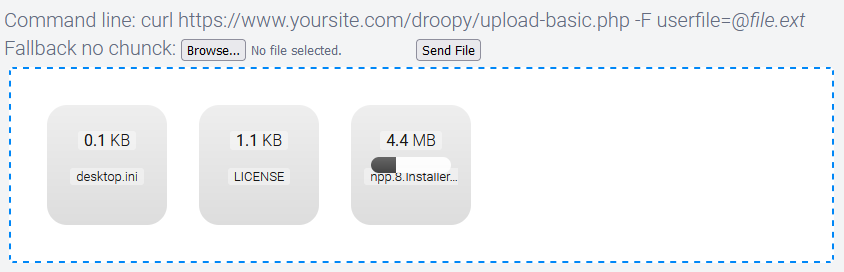
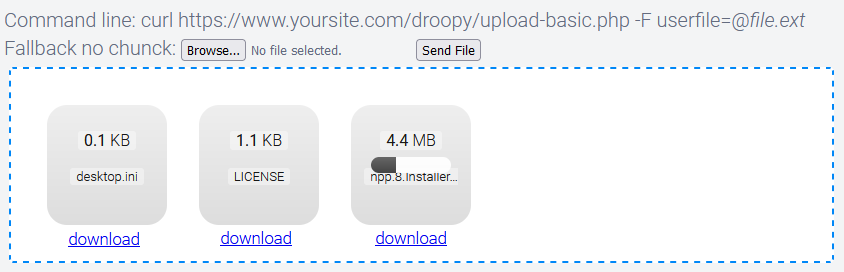
release 1.3.1 phenomenal 	modified:   README.md 	modified:   assets/front1.png 	modified:   index.html

Changed region(s): [[0.0616, 0.8529, 0.1848, 0.9118], [0.2464, 0.8529, 0.3697, 0.9118], [0.4313, 0.8529, 0.5237, 0.9118]]

diff --git a/index.html b/index.html
@@ -1,7 +1,7 @@
 <!DOCTYPE html>
 <html>
   <head>
-    <!--# version: 1.3.0 -->
+    <!--# version: 1.3.1 -->
     <!-- <script src="https://ajax.googleapis.com/ajax/libs/jquery/3.5.1/jquery.min.js"></script> -->
     <script src="https://cdnjs.cloudflare.com/ajax/libs/jquery/3.6.1/jquery.min.js"></script>
     <!-- fallback -->

diff --git a/README.md b/README.md
@@ -7,12 +7,14 @@ Default chunk size of 1000000b to bypass most enterprise proxies that would prev
 
 ## Features
 
+- [x] file names are html protected
+- [x] shows download link under each file
+- [x] handles custom subfolders based on file extension or name
 - [x] fallback methods and command line ready with curl
 - [x] chunking: because sometimes ou are behind a dumb IDS or firewall that will prevent you from uploading more then 1MB at a time
 - [x] simplicity
 - [x] works out of the box. No configuration needed
 - [x] forbidden characters protection in filenames uploaded
-- [x] everything goes to /droopy/uploads
 
 ## Installation
 
@@ -20,7 +22,7 @@ Clone the repo, `mkdir droopy/uploads` subfolder and other cutom subfolders if n
 
 ## Word of wisdom
 
-There is no security at all, this is PHP. You need at least basic authentication at the nginx level, or bad things will happen to you.
+There is no security at all, this is PHP. You need at least basic authentication at the nginx level, or bad things will happen to you. Unless you want it public as I do.
 
 ## nginx proxy sample
 
@@ -65,15 +67,18 @@ server {
 ```
 
 ### TODO
-- [ ] mkdir subfolders
+- [ ] PHP prevents file system from exploding
 - [ ] add some form options to the front such as chunk size, chunk on/off etc
-- [ ] loads cutomizations off a json file
-- [ ] show newly uploaded files directly under the dropzone
+- [ ] loads cutomizations from a json file or custom.inc
 - [ ] ability to delete newly uploaded files, until page refresh
-- [ ] create an nginx/php quirk to have dynamic and unique urls to share files
+- [ ] create an nginx/php quirk to have dynamic and unique urls to share files?
 - [ ] ability to setup retention from the front and default retention at the backend
+- [x] mkdir subfolders
+- [x] file names are html protected
+- [x] shows download link under each file
+- [x] handles custom subfolders based on file extension or name
 - [x] protect filenames in the _GET
-- [x] handle multiple custom subfolders based off a dictionary
+- [x] handle multiple custom subfolders based on a dictionary
 - [x] add non-chunk, command line example
 - [x] add non-chunk, native and basic 1-file upload form
 - [x] handle filename without extension
